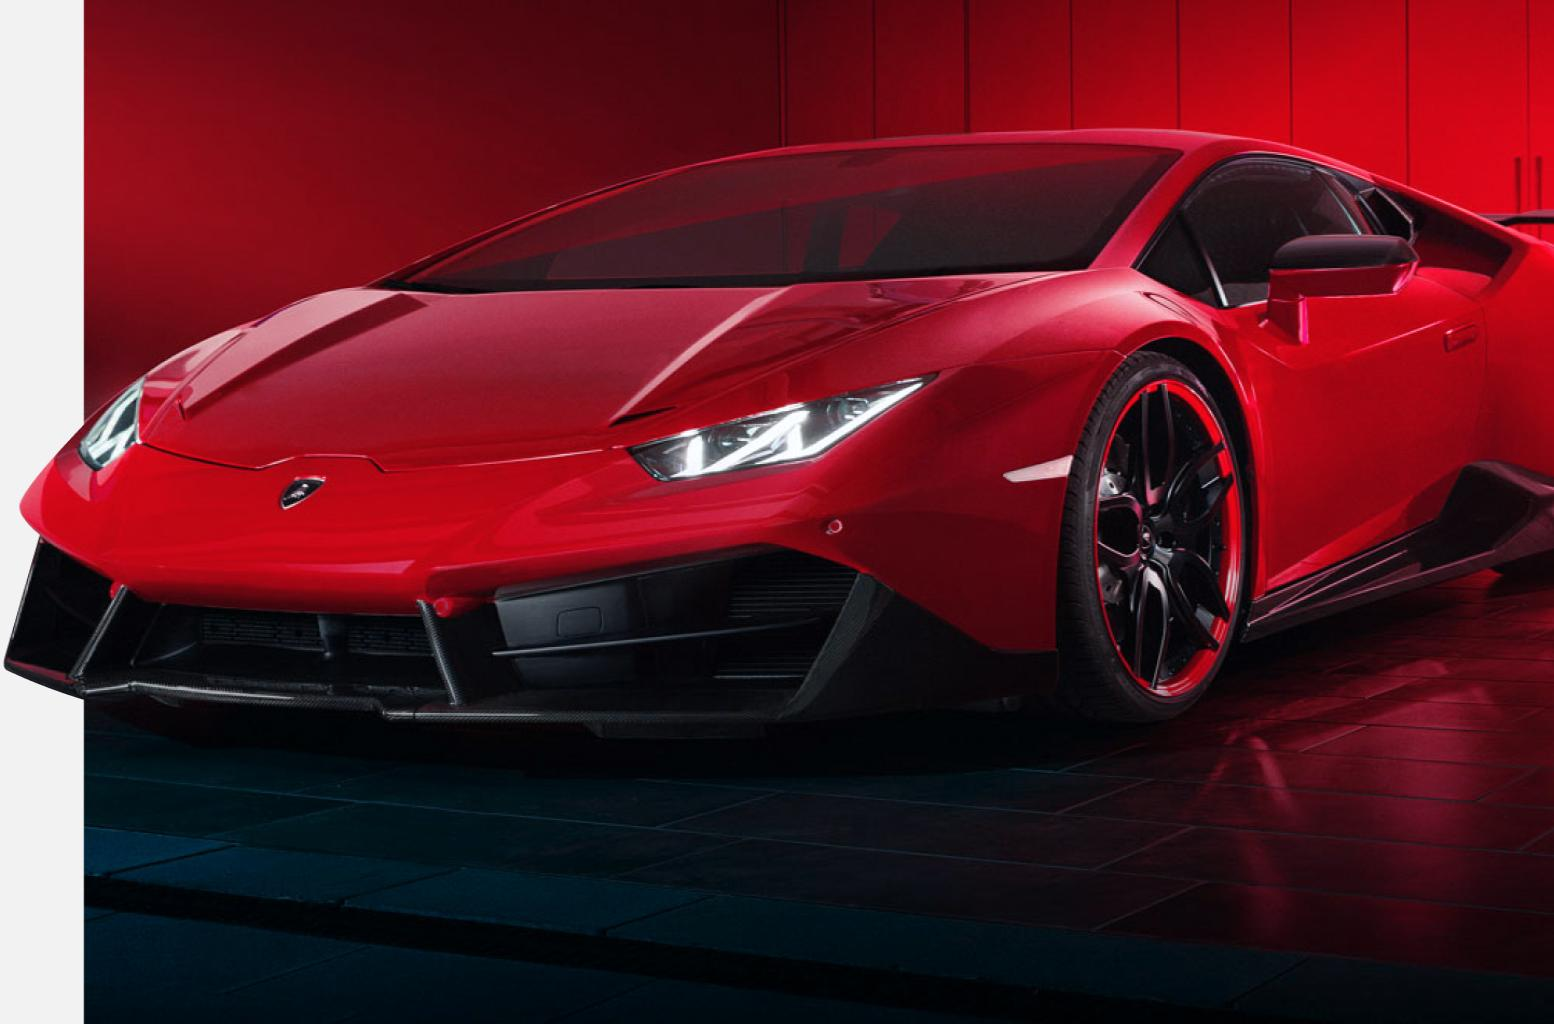
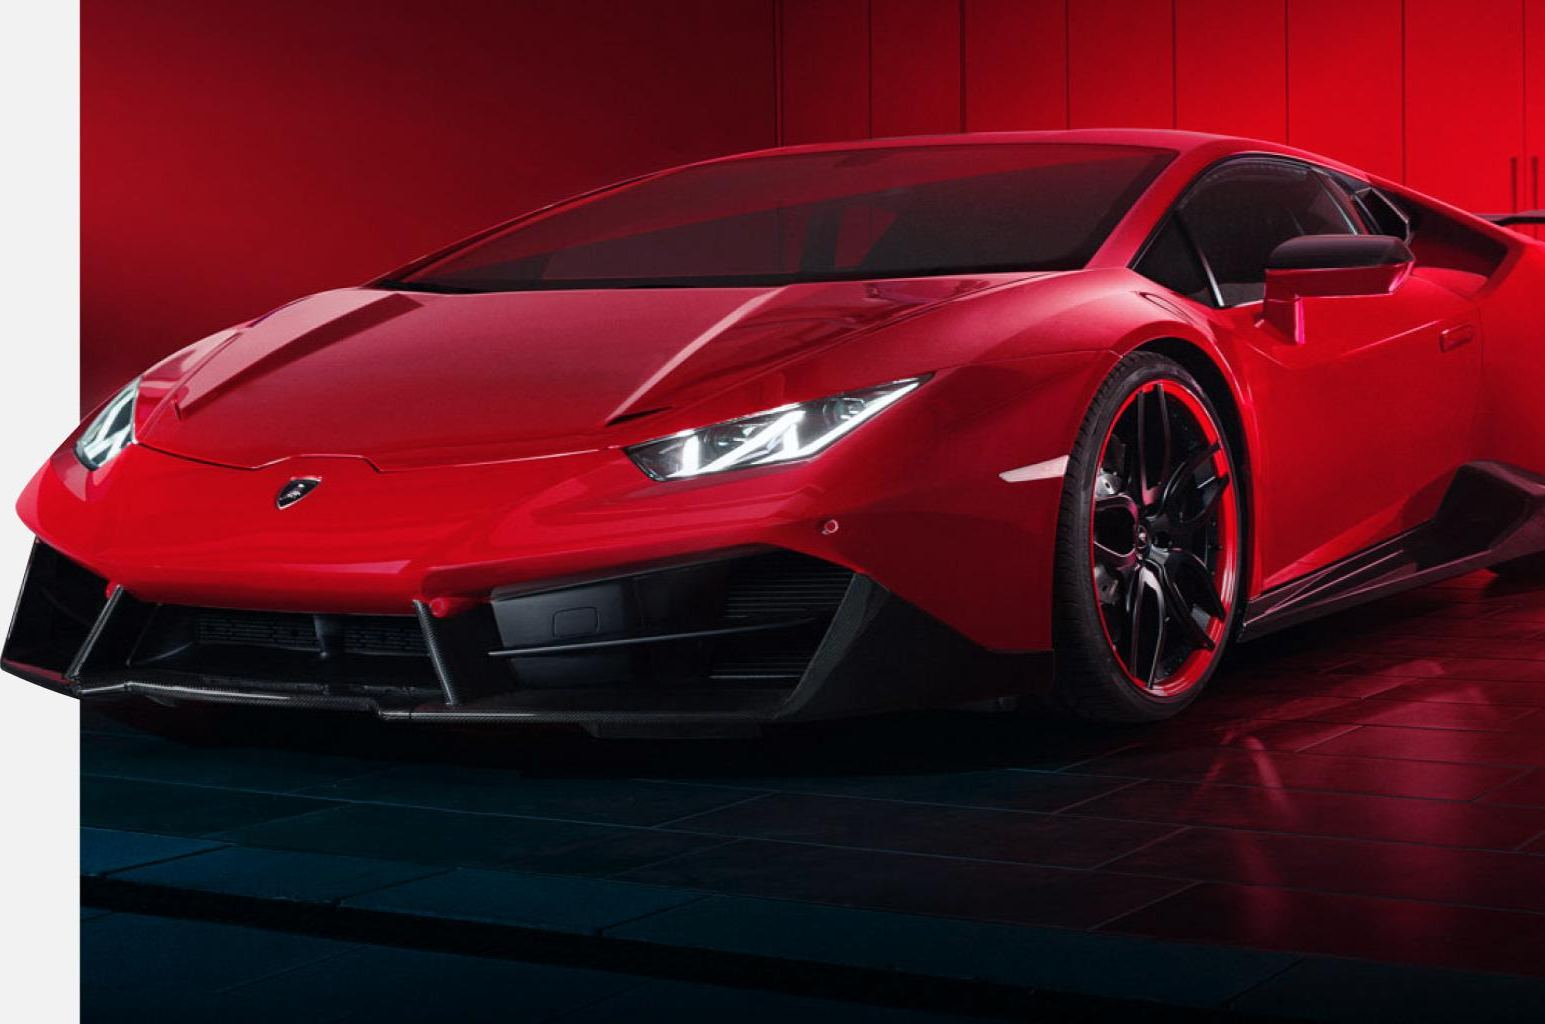
fixes

diff --git a/src/sass/welcome-screen.sass b/src/sass/welcome-screen.sass
@@ -5,6 +5,38 @@
   justify-content: space-between
   min-height: 100vh
 
+  @media #{$media-sm-plus-up}
+
+  &__btn
+    display: none
+
+    @media #{$media-sm-plus-up}
+      align-items: center
+      display: flex
+      flex-direction: row
+      justify-content: flex-end
+      margin-top: 1rem
+      padding-right: calc(33.4vw - 34rem)
+      width: 100%
+
+  &__car-name
+    font-size: 3rem
+    color: $primary
+    letter-spacing: -0.03em
+    display: flex
+
+    @media #{$media-sm-plus-down} 
+      display: none
+    //   display: flex
+    //   flex-direction: row
+    //   text-align: end
+
+    // @media #{$media-sm}
+    //   display: flex
+    //   align-items: center
+    //   font-size: 2.4rem
+    //   line-height: 1.1em
+
   &-wrap
     display: flex
     flex-direction: column
@@ -26,20 +58,21 @@
     justify-content: space-around
 
   &__info
-    margin-bottom: 6.6rem
     padding: 0 6%
     flex: 0 0 34%
 
     @media #{$media-sm-plus-up}
-      padding: 2.3rem 0 0 0
-      margin-bottom: 4rem
+      padding: 0
+      display: flex
+      flex-direction: column
+      justify-content: center
 
     &-text
       display: none
 
       @media #{$media-sm-up}
         display: block
-        margin-top: 3.4rem
+        margin: 0
         width: 71%
 
   &__picture
@@ -72,8 +105,9 @@
       letter-spacing: -0.4rem
       line-height: 25.1rem
       pointer-events: none
-      top: -8.4rem
+      top: -2rem
       white-space: nowrap
+      z-index: 0
 
       @media #{$media-sm}
         font-size: 10rem
@@ -103,13 +137,12 @@
       display: flex
       flex-direction: row
       justify-content: flex-end
-      margin-bottom: 3rem
       padding-right: 0
       position: relative
 
       @media #{$media-sm-plus-up}
         bottom: 0
-        padding-right: calc(8.6vw + 35rem)
+        padding-right: calc(33.4vw)
 
       &-reverse
         justify-content: flex-start
@@ -209,7 +242,7 @@
     font-weight: bold
     justify-content: flex-start
     letter-spacing: 0px
-    padding: 35px 10px 35px 0px
+    padding: 1rem 1rem 1rem 0
     position: relative
 
   &__img
@@ -231,4 +264,3 @@
   width: 100%
 
 .slide-conteiner
-  padding-top: 5rem

diff --git a/src/js/main.js b/src/js/main.js
@@ -6,6 +6,7 @@ const prevSlide = $('#prev-slide');
 const nextSlide = $('#next-slide');
 const mainLinks = $$('.main-links');
 const mainSlides = $$('.main-slides');
+const carName = $$('.content__car-name');
 
 let mainSlideIndex = 1;
 let timer = null;
@@ -64,21 +65,25 @@ function showSlides(index) {
   mainLinks[mainSlideIndex - 1].classList.add('active');
 
   mainSlides.forEach(slide => slide.classList.add('hidden'));
+  carName.forEach(slide => slide.classList.add('hidden'));
   mainSlides[mainSlideIndex - 1].classList.remove('hidden');
+  carName[mainSlideIndex - 1].classList.remove('hidden');
 
-  // mainSlides[mainSlideIndex - 1].classList.add('clipInLeft');
-  // mainSlides[mainSlideIndex - 1].addEventListener("animationend", () => {
-  //   mainSlides.forEach(slide => slide.classList.remove(`clipInLeft`));
-  // }, false);
+  mainSlides[mainSlideIndex - 1].classList.add('clipInLeft');
+  carName[mainSlideIndex - 1].classList.add('clipInLeft');
+  mainSlides[mainSlideIndex - 1].addEventListener("animationend", () => {
+    mainSlides.forEach(slide => slide.classList.remove(`clipInLeft`));
+    carName.forEach(slide => slide.classList.remove(`clipInLeft`));
+  }, false);
   
 
   timer = setTimeout(() => {
-    // mainSlides[mainSlideIndex - 1].classList.add('clipOutRight');
+    mainSlides[mainSlideIndex - 1].classList.add('clipOutRight');
 
-    // mainSlides[mainSlideIndex - 1].addEventListener("animationend", () => {
-    //   mainSlides.forEach(slide => slide.classList.remove(`clipOutRight`));
-    //   showSlides(mainSlideIndex + 1);
-    // }, false);
+    mainSlides[mainSlideIndex - 1].addEventListener("animationend", () => {
+      mainSlides.forEach(slide => slide.classList.remove(`clipOutRight`));
+      // showSlides(mainSlideIndex + 1);
+    }, false);
 
     showSlides(mainSlideIndex + 1);
   }, 6000);

diff --git a/src/sass/lamborghini.sass b/src/sass/lamborghini.sass
@@ -20,10 +20,10 @@
 
     @media #{$media-sm-plus-up}
       background-color: $white_secondary
-      bottom: 0
+      bottom: -3px
       display: block
-      height: 4vw
-      left: -1px
+      height: 6vw
+      left: -2px
       position: absolute
       width: $padding-navbar
 
@@ -83,3 +83,4 @@
       display: flex
       justify-content: flex-end
       margin-bottom: 60px
+      padding-top: 1rem

diff --git a/src/sass/prices.sass b/src/sass/prices.sass
@@ -63,7 +63,7 @@
     margin-left: 1rem
 
     @media #{$media-sm-plus-up}
-      left: -2rem
+      left: -3vw
       margin-left: 0
       object-fit: contain
       position: relative
@@ -88,7 +88,7 @@
 
     @media #{$media-sm-plus-up}
       margin-top: 0 !important
-      min-height: 10rem
+      min-height: 6rem
       padding-left: 0
       padding-right: 3rem
       

diff --git a/src/sass/mustang.sass b/src/sass/mustang.sass
@@ -21,9 +21,9 @@
 
     @media #{$media-sm-plus-up}
       background-color: $white_secondary
-      bottom: 0
+      bottom: -2px
       display: block
-      height: 6.25vw
+      height: 6vw
       position: absolute
-      right: 0
+      right: -2px
       width: $padding-navbar
